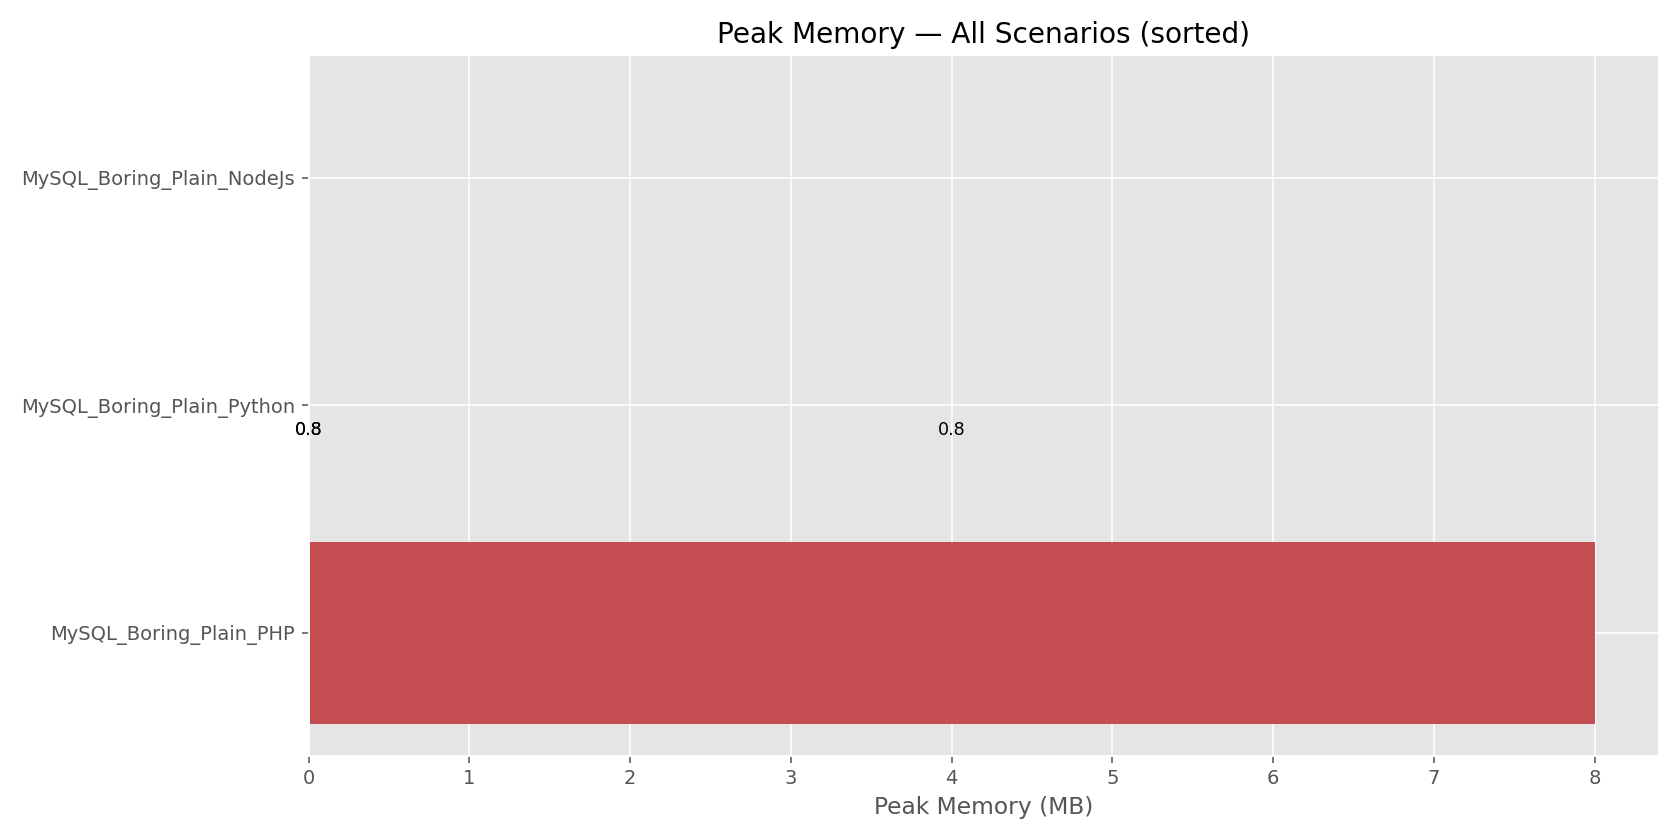
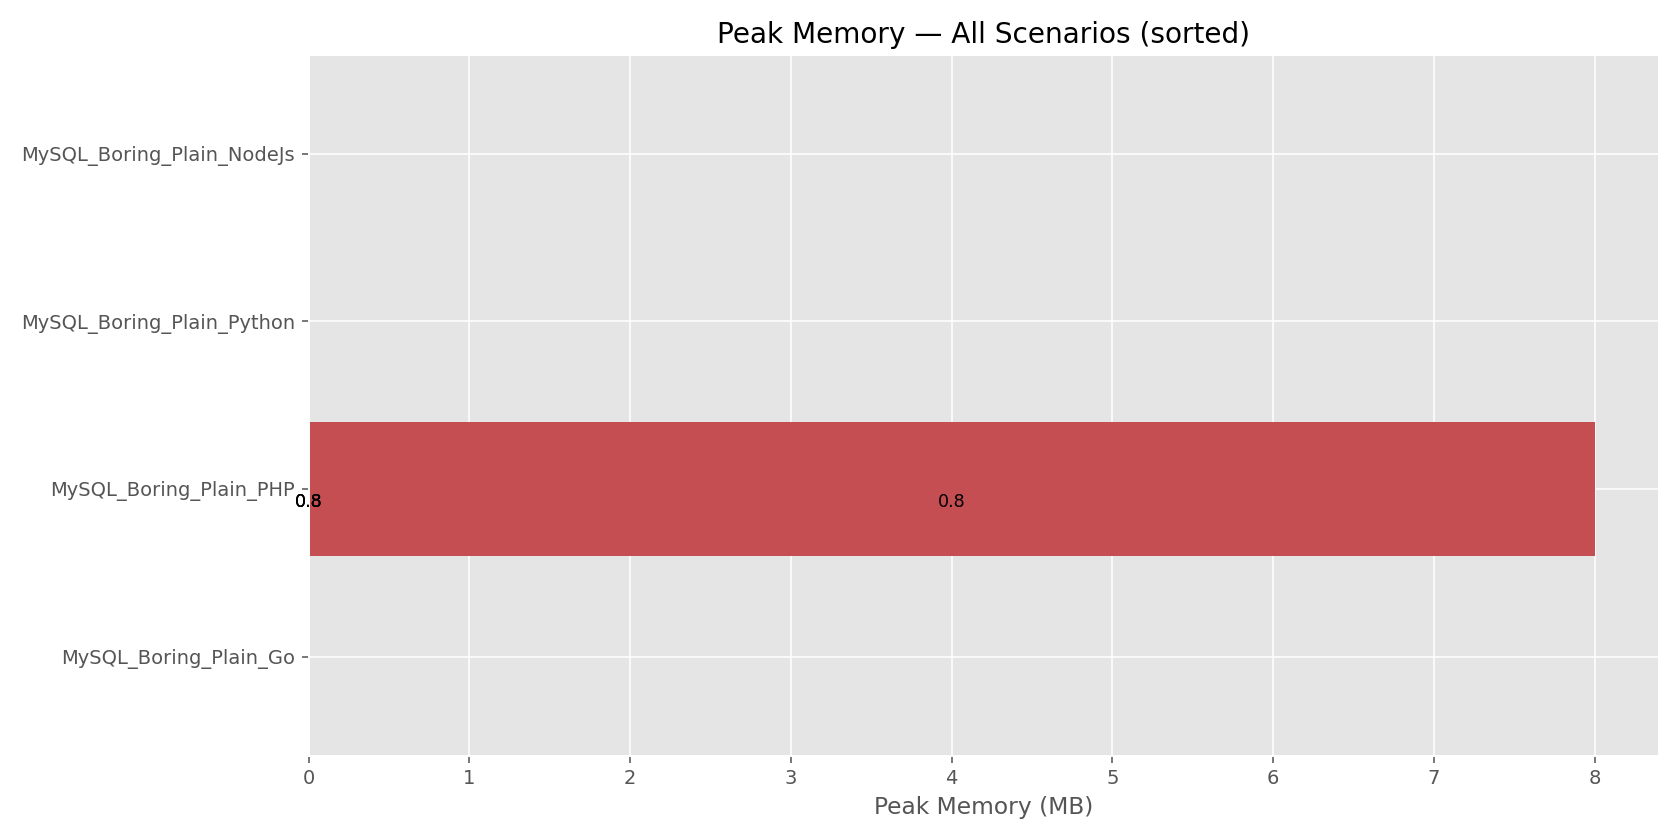
adding go

diff --git a/mysql/boring/a_plain/plain.go b/mysql/boring/a_plain/plain.go
@@ -1,0 +1,200 @@
+package main
+
+import (
+	"database/sql"
+	"encoding/csv"
+	"encoding/json"
+	"fmt"
+	"os"
+	"path/filepath"
+	"runtime"
+	"strconv"
+	"time"
+
+	_ "github.com/go-sql-driver/mysql"
+	"github.com/shirou/gopsutil/v3/process"
+)
+
+const (
+	csvFile    = "../../../test-file.csv"
+	resultsDir = "../../../results"
+	tableName  = "products_mysql_boring_plain"
+
+	batchSize = 1000
+	totalRows = 1000000
+)
+
+type Result struct {
+	DB           string    `json:"db"`
+	Mode         string    `json:"mode"`
+	Variant      string    `json:"variant"`
+	Language     string    `json:"language"`
+	TotalRows    int       `json:"total_rows"`
+	TotalTimeSec float64   `json:"total_time_sec"`
+	RowsPerSec   float64   `json:"rows_per_sec"`
+	PeakMemoryMB float64   `json:"peak_memory_mb"`
+	PeakCPU      float64   `json:"peak_cpu_percent"`
+	MemoryUsage  []float64 `json:"memory_usage"`
+	MemorySpikes []float64 `json:"memory_spikes"`
+	CPUUsage     []float64 `json:"cpu_usage"`
+	CPUSpikes    []float64 `json:"cpu_spikes"`
+}
+
+func main() {
+	_, thisFile, _, _ := runtime.Caller(0)
+
+	baseDir := filepath.Dir(thisFile)
+
+	resultsDir := filepath.Join(baseDir, resultsDir)
+
+	os.MkdirAll(resultsDir, 0755)
+
+	db, err := sql.Open("mysql", "root:@tcp(127.0.0.1:3306)/benchmark?parseTime=true")
+	if err != nil {
+		panic(err)
+	}
+	defer db.Close()
+
+	db.Exec("TRUNCATE TABLE " + tableName)
+
+	csvFile := filepath.Join(baseDir, csvFile)
+
+	file, err := os.Open(csvFile)
+	if err != nil {
+		panic(err)
+	}
+	defer file.Close()
+
+	reader := csv.NewReader(file)
+	reader.FieldsPerRecord = -1
+
+	// skip header
+	reader.Read()
+
+	proc, _ := process.NewProcess(int32(os.Getpid()))
+
+	start := time.Now()
+	rowsInserted := 0
+	lastLog := 0
+
+	var memoryUsage, memorySpikes, cpuUsage, cpuSpikes []float64
+
+	batch := make([][]string, 0, batchSize)
+
+	recordMetrics := func() {
+		memInfo, _ := proc.MemoryInfo()
+		cpu, _ := proc.CPUPercent()
+
+		mem := float64(memInfo.RSS) / 1024 / 1024
+
+		memoryUsage = append(memoryUsage, mem)
+		cpuUsage = append(cpuUsage, cpu)
+
+		if len(memorySpikes) == 0 || mem > memorySpikes[len(memorySpikes)-1] {
+			memorySpikes = append(memorySpikes, mem)
+		} else {
+			memorySpikes = append(memorySpikes, memorySpikes[len(memorySpikes)-1])
+		}
+
+		if len(cpuSpikes) == 0 || cpu > cpuSpikes[len(cpuSpikes)-1] {
+			cpuSpikes = append(cpuSpikes, cpu)
+		} else {
+			cpuSpikes = append(cpuSpikes, cpuSpikes[len(cpuSpikes)-1])
+		}
+	}
+
+	insertBatch := func(batch [][]string) {
+		tx, _ := db.Begin()
+		stmt, _ := tx.Prepare(`
+			INSERT INTO ` + tableName + `
+			(Id, Name, Description, Brand, Category, Price, Currency, Stock,
+			 EAN, Color, Size, Availability, InternalID)
+			VALUES (?, ?, ?, ?, ?, ?, ?, ?, ?, ?, ?, ?, ?)
+		`)
+		defer stmt.Close()
+
+		for _, r := range batch {
+			price, _ := strconv.ParseFloat(r[5], 64)
+			stock, _ := strconv.Atoi(r[7])
+
+			stmt.Exec(
+				r[0], r[1], r[2], r[3], r[4],
+				price, r[6], stock,
+				r[8], r[9], r[10], r[11], r[12],
+			)
+		}
+
+		tx.Commit()
+	}
+
+	for {
+		row, err := reader.Read()
+		if err != nil {
+			break
+		}
+
+		batch = append(batch, row)
+
+		if len(batch) >= batchSize {
+			insertBatch(batch)
+			rowsInserted += len(batch)
+			batch = batch[:0]
+
+			recordMetrics()
+
+			if rowsInserted-lastLog >= 100000 {
+				fmt.Println("Inserted", rowsInserted)
+				lastLog = rowsInserted
+			}
+		}
+	}
+
+	if len(batch) > 0 {
+		insertBatch(batch)
+		rowsInserted += len(batch)
+		recordMetrics()
+	}
+
+	elapsed := time.Since(start).Seconds()
+	rowsPerSec := float64(rowsInserted) / elapsed
+
+	var peakMem, peakCPU float64
+	for _, m := range memoryUsage {
+		if m > peakMem {
+			peakMem = m
+		}
+	}
+	for _, c := range cpuUsage {
+		if c > peakCPU {
+			peakCPU = c
+		}
+	}
+
+	result := Result{
+		DB:           "MySQL",
+		Mode:         "Boring",
+		Variant:      "Plain",
+		Language:     "Go",
+		TotalRows:    rowsInserted,
+		TotalTimeSec: elapsed,
+		RowsPerSec:   rowsPerSec,
+		PeakMemoryMB: peakMem,
+		PeakCPU:      peakCPU,
+		MemoryUsage:  memoryUsage,
+		MemorySpikes: memorySpikes,
+		CPUUsage:     cpuUsage,
+		CPUSpikes:    cpuSpikes,
+	}
+
+	f, _ := os.Create(resultsDir + "/mysql_boring_a_plain_go.json")
+	json.NewEncoder(f).Encode(result)
+	f.Close()
+
+	fmt.Println("\n✅ DONE")
+	fmt.Printf("Time: %.2fs\n", elapsed)
+	fmt.Printf("Rows/sec: %.0f\n", rowsPerSec)
+	fmt.Printf("Peak RAM: %.2f MB\n", peakMem)
+	fmt.Printf("Peak CPU: %.2f%%\n", peakCPU)
+
+	runtime.GC()
+}

diff --git a/CHECKLIST.md b/CHECKLIST.md
@@ -9,33 +9,29 @@ Track which tests have been completed. ✅ = Done, ❌ = Pending
 ### Boring Mode
 
 - [ ] Variant A – Plain Insert
-  - [ ] PHP
-  - [ ] Node.js
-  - [ ] Python
+  - [x] PHP
+  - [x] Node.js
+  - [x] Python
   - [ ] Go
   - [ ] Rust
-  - [ ] Dart
 - [ ] Variant B – Index ON
   - [ ] PHP
   - [ ] Node.js
   - [ ] Python
   - [ ] Go
   - [ ] Rust
-  - [ ] Dart
 - [ ] Variant C – LOAD DATA
   - [ ] PHP
   - [ ] Node.js
   - [ ] Python
   - [ ] Go
   - [ ] Rust
-  - [ ] Dart
 - [ ] Variant D – Memory Pressure
   - [ ] PHP
   - [ ] Node.js
   - [ ] Python
   - [ ] Go
   - [ ] Rust
-  - [ ] Dart
 
 ### Parallel Mode
 
@@ -45,28 +41,24 @@ Track which tests have been completed. ✅ = Done, ❌ = Pending
   - [ ] Python
   - [ ] Go
   - [ ] Rust
-  - [ ] Dart
 - [ ] Variant B – Index ON
   - [ ] PHP
   - [ ] Node.js
   - [ ] Python
   - [ ] Go
   - [ ] Rust
-  - [ ] Dart
 - [ ] Variant C – LOAD DATA
   - [ ] PHP
   - [ ] Node.js
   - [ ] Python
   - [ ] Go
   - [ ] Rust
-  - [ ] Dart
 - [ ] Variant D – Memory Pressure
   - [ ] PHP
   - [ ] Node.js
   - [ ] Python
   - [ ] Go
   - [ ] Rust
-  - [ ] Dart
 
 ---
 
@@ -80,28 +72,24 @@ Track which tests have been completed. ✅ = Done, ❌ = Pending
   - [ ] Python
   - [ ] Go
   - [ ] Rust
-  - [ ] Dart
 - [ ] Variant B – Index ON
   - [ ] PHP
   - [ ] Node.js
   - [ ] Python
   - [ ] Go
   - [ ] Rust
-  - [ ] Dart
 - [ ] Variant C – COPY
   - [ ] PHP
   - [ ] Node.js
   - [ ] Python
   - [ ] Go
   - [ ] Rust
-  - [ ] Dart
 - [ ] Variant D – Memory Pressure
   - [ ] PHP
   - [ ] Node.js
   - [ ] Python
   - [ ] Go
   - [ ] Rust
-  - [ ] Dart
 
 ### Parallel Mode
 
@@ -111,25 +99,21 @@ Track which tests have been completed. ✅ = Done, ❌ = Pending
   - [ ] Python
   - [ ] Go
   - [ ] Rust
-  - [ ] Dart
 - [ ] Variant B – Index ON
   - [ ] PHP
   - [ ] Node.js
   - [ ] Python
   - [ ] Go
   - [ ] Rust
-  - [ ] Dart
 - [ ] Variant C – COPY
   - [ ] PHP
   - [ ] Node.js
   - [ ] Python
   - [ ] Go
   - [ ] Rust
-  - [ ] Dart
 - [ ] Variant D – Memory Pressure
   - [ ] PHP
   - [ ] Node.js
   - [ ] Python
   - [ ] Go
   - [ ] Rust
-  - [ ] Dart

diff --git a/RESULTS.MD b/RESULTS.MD
@@ -21,8 +21,6 @@ This file contains the results of all CSV → Database ingestion benchmarks, inc
 | MySQL | Parallel | Plain   | Nodejs   |                    |                    |                    |                    |                    |
 | ...   | ...      | ...     | ...      | ...                | ...                | ...                | ...                | ...                |
 
-> Copy this table for each language (Node.js, Python, Go, Rust, Dart)
-
 ---
 
 ## 📊 Graphs
@@ -72,8 +70,6 @@ You can optionally add a section per language with **all variants detailed**:
 - Memory Spikes: ![Graph](graphs/MySQL_Boring_Plain_PHP_memory.png)
 - CPU Usage: ![Graph](graphs/MySQL_Boring_Plain_PHP_cpu.png)
 - CPU Spikes: ![Graph](graphs/MySQL_Boring_Plain_PHP_cpu.png)
-
-> Repeat the above for Node.js, Python, Go, Rust, Dart
 
 ---
 

diff --git a/BENCHMARK_RULES.md b/BENCHMARK_RULES.md
@@ -35,7 +35,6 @@ Not measured:
 - Python
 - Go
 - Rust
-- Dart
 
 Each language must use:
 
@@ -143,7 +142,6 @@ Schema:
 - Python: 512–1024MB
 - Go: 256–512MB
 - Rust: 256MB
-- Dart: 512MB
 
 **Batch size:** 1000 rows
 
